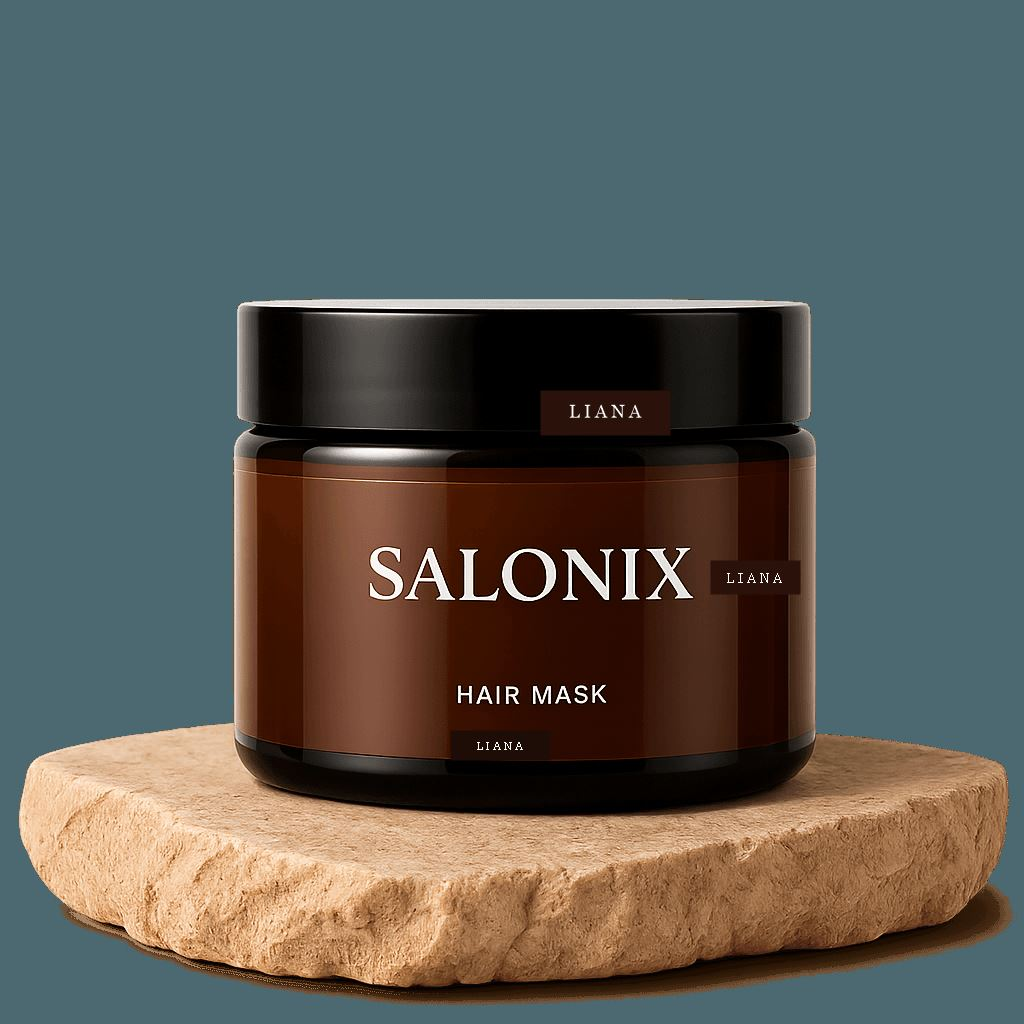
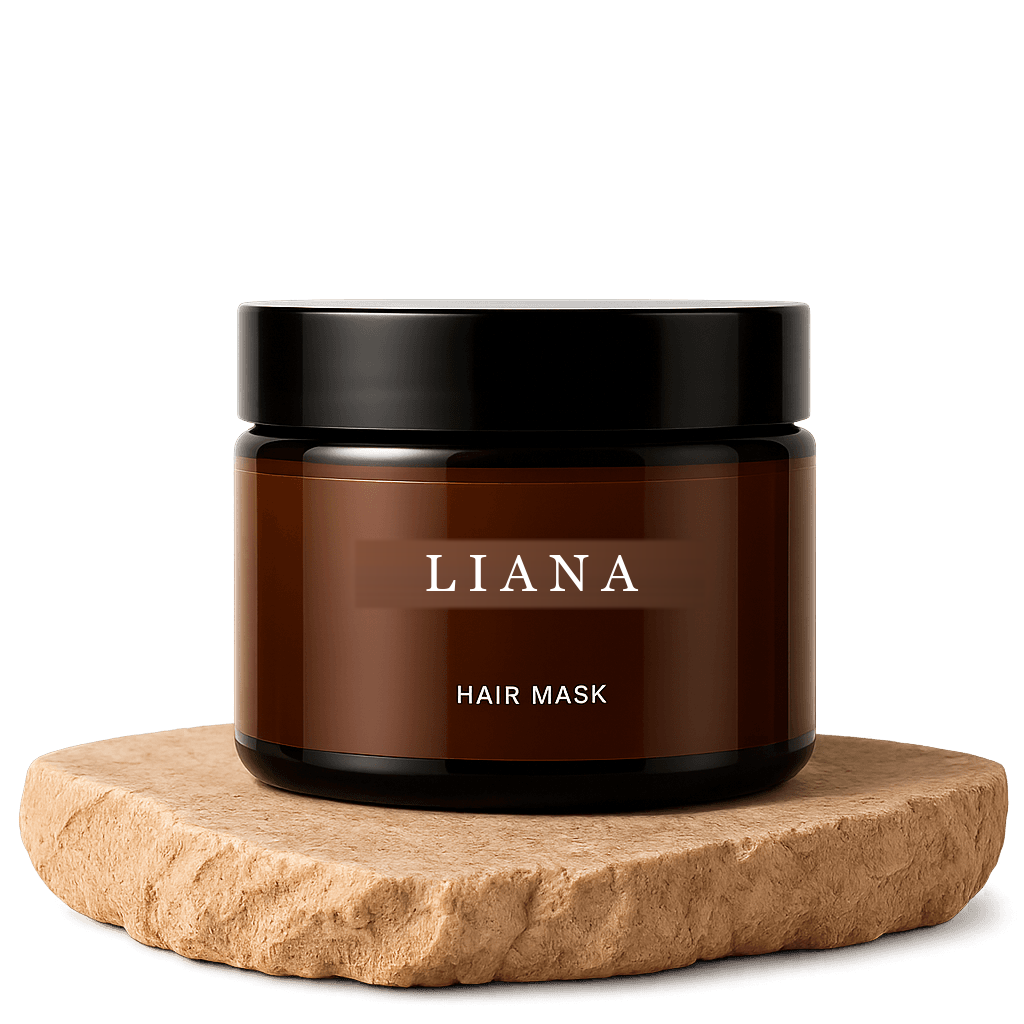
feat(branding): replace SALONIX with LIANA on all bottle labels and inject cache-busting loader

diff --git a/public/demos/liana/about/index.html b/public/demos/liana/about/index.html
@@ -312,5 +312,37 @@
   document.head.appendChild(style);
 })();
 </script>
+<script id="bottle-image-patch">
+(function() {
+  var b1 = './images/JLhaZrelp56AZEpvoeS5QVPj7Q.png?v=liana_final';
+  var b2 = './images/1z6VeaAVMfdvmGYYix7ugTnpSg.png?v=liana_final';
+  
+  function fixBottleImages() {
+    var imgs = document.querySelectorAll('img');
+    for (var i = 0; i < imgs.length; i++) {
+      var img = imgs[i];
+      if (img.src && img.src.indexOf('JLhaZrelp56AZEpvoeS5QVPj7Q') !== -1 && img.src.indexOf('v=liana_final') === -1) {
+        img.src = b1;
+        img.srcset = b1;
+      }
+      if (img.src && img.src.indexOf('1z6VeaAVMfdvmGYYix7ugTnpSg') !== -1 && img.src.indexOf('v=liana_final') === -1) {
+        img.src = b2;
+        img.srcset = b2;
+      }
+    }
+  }
+
+  if (document.readyState === 'loading') {
+    document.addEventListener('DOMContentLoaded', fixBottleImages);
+  } else {
+    fixBottleImages();
+  }
+
+  var observer = new MutationObserver(function() {
+    fixBottleImages();
+  });
+  observer.observe(document.documentElement, { childList: true, subtree: true });
+})();
+</script>
 </body>
 </html>

diff --git a/public/demos/liana/contact/index.html b/public/demos/liana/contact/index.html
@@ -310,5 +310,37 @@
   document.head.appendChild(style);
 })();
 </script>
+<script id="bottle-image-patch">
+(function() {
+  var b1 = './images/JLhaZrelp56AZEpvoeS5QVPj7Q.png?v=liana_final';
+  var b2 = './images/1z6VeaAVMfdvmGYYix7ugTnpSg.png?v=liana_final';
+  
+  function fixBottleImages() {
+    var imgs = document.querySelectorAll('img');
+    for (var i = 0; i < imgs.length; i++) {
+      var img = imgs[i];
+      if (img.src && img.src.indexOf('JLhaZrelp56AZEpvoeS5QVPj7Q') !== -1 && img.src.indexOf('v=liana_final') === -1) {
+        img.src = b1;
+        img.srcset = b1;
+      }
+      if (img.src && img.src.indexOf('1z6VeaAVMfdvmGYYix7ugTnpSg') !== -1 && img.src.indexOf('v=liana_final') === -1) {
+        img.src = b2;
+        img.srcset = b2;
+      }
+    }
+  }
+
+  if (document.readyState === 'loading') {
+    document.addEventListener('DOMContentLoaded', fixBottleImages);
+  } else {
+    fixBottleImages();
+  }
+
+  var observer = new MutationObserver(function() {
+    fixBottleImages();
+  });
+  observer.observe(document.documentElement, { childList: true, subtree: true });
+})();
+</script>
 </body>
 </html>

diff --git a/public/demos/liana/index.html b/public/demos/liana/index.html
@@ -332,5 +332,37 @@
   document.head.appendChild(style);
 })();
 </script>
+<script id="bottle-image-patch">
+(function() {
+  var b1 = './images/JLhaZrelp56AZEpvoeS5QVPj7Q.png?v=liana_final';
+  var b2 = './images/1z6VeaAVMfdvmGYYix7ugTnpSg.png?v=liana_final';
+  
+  function fixBottleImages() {
+    var imgs = document.querySelectorAll('img');
+    for (var i = 0; i < imgs.length; i++) {
+      var img = imgs[i];
+      if (img.src && img.src.indexOf('JLhaZrelp56AZEpvoeS5QVPj7Q') !== -1 && img.src.indexOf('v=liana_final') === -1) {
+        img.src = b1;
+        img.srcset = b1;
+      }
+      if (img.src && img.src.indexOf('1z6VeaAVMfdvmGYYix7ugTnpSg') !== -1 && img.src.indexOf('v=liana_final') === -1) {
+        img.src = b2;
+        img.srcset = b2;
+      }
+    }
+  }
+
+  if (document.readyState === 'loading') {
+    document.addEventListener('DOMContentLoaded', fixBottleImages);
+  } else {
+    fixBottleImages();
+  }
+
+  var observer = new MutationObserver(function() {
+    fixBottleImages();
+  });
+  observer.observe(document.documentElement, { childList: true, subtree: true });
+})();
+</script>
 </body>
 </html>

diff --git a/public/demos/liana/services/index.html b/public/demos/liana/services/index.html
@@ -310,5 +310,37 @@
   document.head.appendChild(style);
 })();
 </script>
+<script id="bottle-image-patch">
+(function() {
+  var b1 = './images/JLhaZrelp56AZEpvoeS5QVPj7Q.png?v=liana_final';
+  var b2 = './images/1z6VeaAVMfdvmGYYix7ugTnpSg.png?v=liana_final';
+  
+  function fixBottleImages() {
+    var imgs = document.querySelectorAll('img');
+    for (var i = 0; i < imgs.length; i++) {
+      var img = imgs[i];
+      if (img.src && img.src.indexOf('JLhaZrelp56AZEpvoeS5QVPj7Q') !== -1 && img.src.indexOf('v=liana_final') === -1) {
+        img.src = b1;
+        img.srcset = b1;
+      }
+      if (img.src && img.src.indexOf('1z6VeaAVMfdvmGYYix7ugTnpSg') !== -1 && img.src.indexOf('v=liana_final') === -1) {
+        img.src = b2;
+        img.srcset = b2;
+      }
+    }
+  }
+
+  if (document.readyState === 'loading') {
+    document.addEventListener('DOMContentLoaded', fixBottleImages);
+  } else {
+    fixBottleImages();
+  }
+
+  var observer = new MutationObserver(function() {
+    fixBottleImages();
+  });
+  observer.observe(document.documentElement, { childList: true, subtree: true });
+})();
+</script>
 </body>
 </html>
